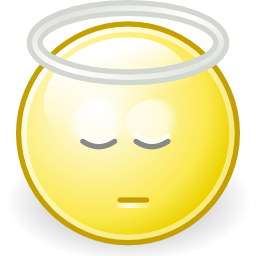
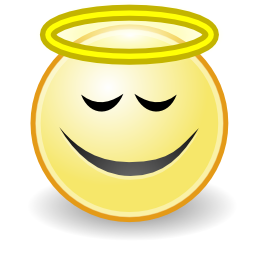
Updated media for ghosts to avoid licensing issues

diff --git a/src/games/ghosts/TotenAnzeige.java b/src/games/ghosts/TotenAnzeige.java
@@ -17,8 +17,8 @@ public class TotenAnzeige extends JPanel {
 	public int status;
 	private Bildschirm[] flaeche = new Bildschirm[4];
 	private String[] icon = new String[2];{
-		icon[0] = "/media/ghosts/littleEngel.jpg";
-		icon[1] = "/media/ghosts/littleTeufel.jpg";
+		icon[0] = "/media/ghosts/littleEngel.png";
+		icon[1] = "/media/ghosts/littleTeufel.png";
 	}
 	private int gone = 0;
 
